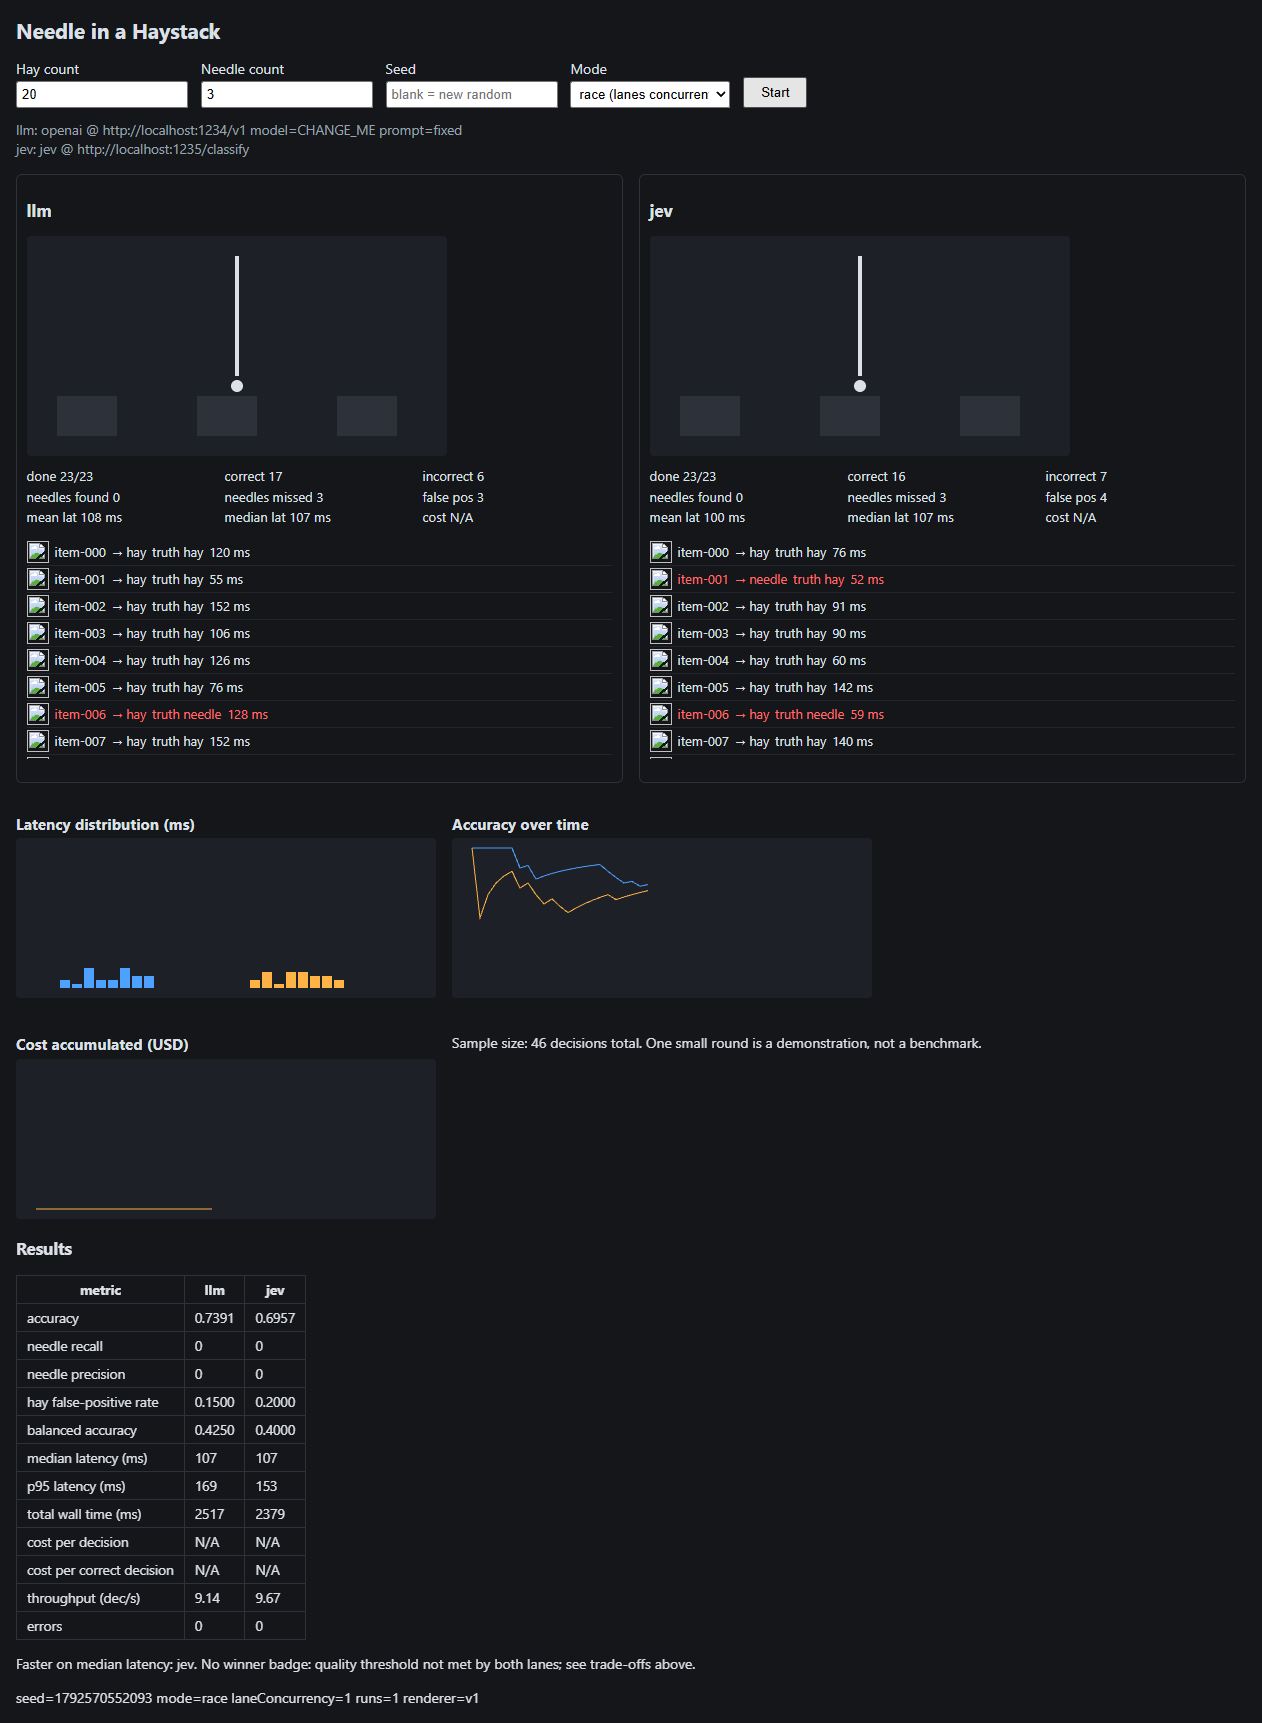
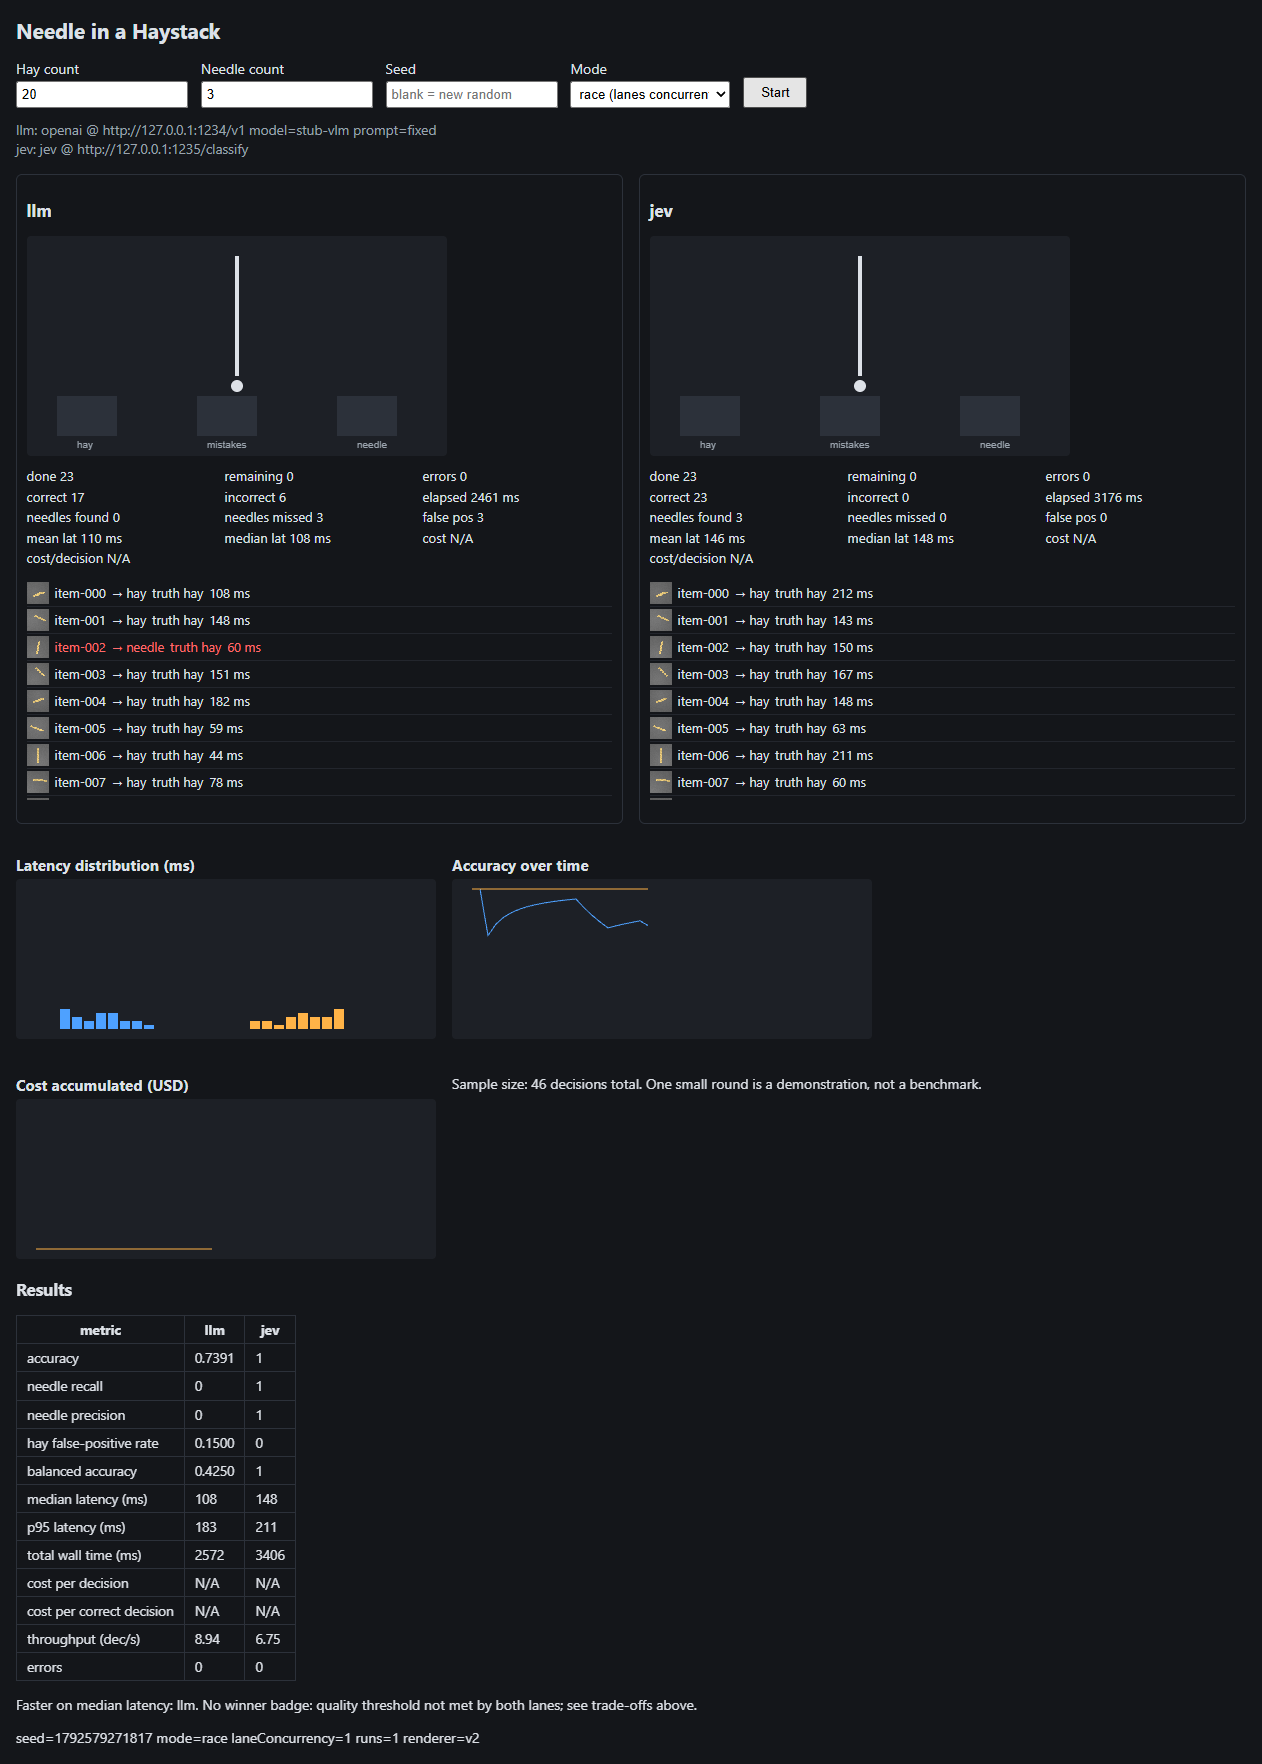
docs: fresh screenshot with legible sprites, updated measurements

diff --git a/README.md b/README.md
@@ -23,7 +23,7 @@ end-of-round table are the real thing._</sub>
   │ ╱      └────┘      ╲         │        │         ╱      └────┘      ╲ │
   │ │   hay        needle │       │        │        │   hay        needle │
   └──────────────────────────────┘        └──────────────────────────────┘
-       median 2.0s, acc 0.3                     median 9.0s, acc 0.3
+     median 3.7s, acc 1.0                    median 9.0s, acc not measured
 ```
 
 ---
@@ -115,14 +115,19 @@ If you want a lane that truly sees pixels, point the `openai` adapter at a visio
 
 | lane | accuracy | balanced acc | median | p95 | errors | cost |
 |---|---|---|---|---|---|---|
-| `llm` — MiniMax M3.1 Flash (vision, cloud) | 0.30 | 0.50 | 2017 ms | 7053 ms | 0 | N/A |
-| `jev` — hosted jev-1.13 (shape mask) | 0.30 | 0.31 | 9009 ms | 13069 ms | 4 (402, out of credits) | 1 credit/call |
+| `llm` — MiniMax M3.1 Flash (vision, cloud) | 1.00 / 0.90 | 1.00 / 0.93 | 3.1–3.7 s | 4.9–8.0 s | 0 | N/A |
+| `jev` — hosted jev-1.13 (shape mask) | not measured¹ | — | ~9–13 s | — | 402 after 6 calls² | 1 credit/call |
+
+¹ the account ran out of credits before we could re-measure it on the legible sprites.
+² `402 Payment Required` — failed calls are never charged, and the game shows them as errors, not zeroes.
 
 Two honest findings:
 
-1. **Our hay is sneakier than intended.** A 1–2 px straw on a grey gradient disappears when a
-   vision model downsamples it, so *both* lanes look bad. Making the sprites legible is the
-   next fix — and it is a fix to the game, not to the models.
+1. **Our first hay was too good.** A 1–2 px straw on a grey gradient disappears when a vision
+   model downsamples it: both lanes scored ~0.3 and the game measured noise, not models. After
+   making the sprites legible (thicker shapes, real contrast, flat background — and a test that
+   downscales the sprite the way a model would), the chat lane jumped to **0.9–1.0**. If your
+   model looks bad here, check the hay before you blame the model.
 2. **The hosted decision API is slow from here.** Its own `latency_ms` says 0.44 s, but the
    round trip is ~9 s. That gap is their per-call overhead, not our network (a plain `GET`
    to the same host takes 0.9 s).

diff --git a/docs/superpowers/handoff-2026-10-21.md b/docs/superpowers/handoff-2026-10-21.md
@@ -64,6 +64,10 @@ config/default.json         lanes, prompt, timeouts, prices
 
 ## Remaining work (step 2 of Task 12)
 
+0. **Done since the first handoff:** sprites are now legible (renderer v2: thicker shapes, real
+   contrast, flat background + a test that downscales the sprite the way a model does). The chat
+   lane went from acc 0.3 to 0.9–1.0. The hosted Jev lane still needs re-measuring on the new
+   sprites — that needs credits (the account 402s after ~6 decisions).
 1. Human starts the real Jev-style model service and gives its URL → set `config/default.json` `lanes[1].url`.
 2. Run one 20-item round, `mode: race`, both lanes real:
    - start server, POST `/api/start` `{hayCount: 17, needleCount: 3, seed: '...'}`, poll `/api/runs/:id/export.json`.
